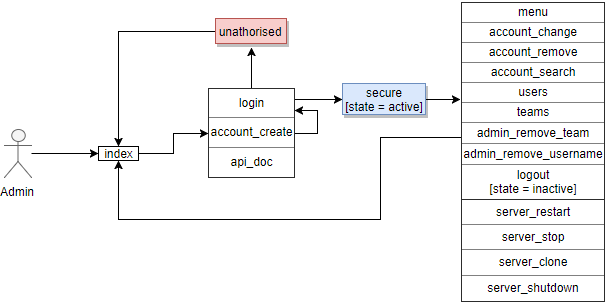
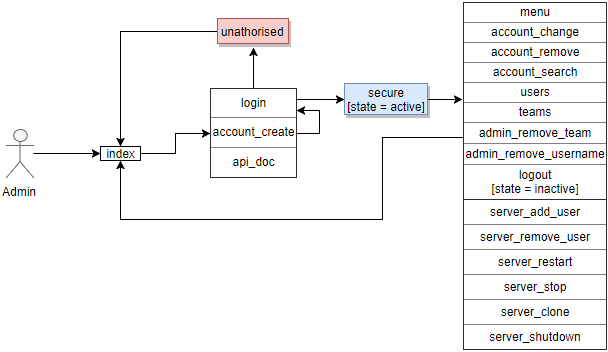
v044 Updated images

diff --git a/README.md b/README.md
@@ -43,6 +43,8 @@ Example: http://localhost:3000/api
 * /logout
 
 ### Module scale
+* /server_add_user
+* /server_remove_user
 * /server_start
 * /server_restart
 * /server_clone
